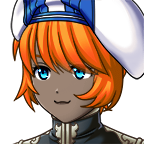
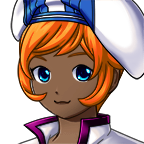
Background Fix
-naprawiono tło
-zmieniono niektóre postaci

diff --git a/js/characters.js b/js/characters.js
@@ -5,7 +5,7 @@ charArr[2] = new Character(3, "m", "dark", "long", "dark", "blue", false, false,
 charArr[3] = new Character(4, "m", "dark", "long", "light", "green", false, false, true)
 charArr[4] = new Character(5, "f", "light", "long", "light", "dark", false, false, false)
 charArr[5] = new Character(6, "f", "red", "long", "light", "green", true, false, true)
-charArr[6] = new Character(7, "m", "red", "short", "light", "yellow", true, false, false)
+charArr[6] = new Character(7, "m", "red", "short", "light", "yellow", true, true, false)
 charArr[7] = new Character(8, "m", "red", "short", "dark", "green", true, false, true)
 charArr[8] = new Character(9, "f", "light", "short", "light", "blue", true, false, false)
 charArr[9] = new Character(10, "f", "dark", "short", "dark", "dark", false, false, false)

diff --git a/styles/game.css b/styles/game.css
@@ -6,24 +6,11 @@
 
 
 body {
-	background-color: #ffb950;
-	background-image: url(../img/question.jpg);
-	background-blend-mode: screen;
+	background-image: radial-gradient(#ffc46b, #ffb648), url(../img/question.png);
+	background-blend-mode:multiply;
 	font-family: "Road Rage", sans-serif;
 }
 
-body::before
-{
-	left: 0;
-	top: 0;
-	content: "";
-	width: 100vw;
-	height: 100vh;
-	background-image: radial-gradient(#ffb950, #ffab2d);
-	opacity: 85%;
-	position: absolute;
-	z-index: -1;
-}
 
 main
 {

diff --git a/styles/main.css b/styles/main.css
@@ -6,23 +6,9 @@
 
 
 body {
-	background-color: #ffb950;
-	background-image: url(../img/question.jpg);
-	background-blend-mode: screen;
+	background-image: radial-gradient(#ffc46b, #ffb648), url(../img/question.png);
+	background-blend-mode:multiply;
 	font-family: "Road Rage", sans-serif;
-}
-
-body::before
-{
-	left: 0;
-	top: 0;
-	content: "";
-	width: 100vw;
-	height: 100vh;
-	background-image: radial-gradient(#ffb950, #ffab2d);
-	opacity: 85%;
-	position: absolute;
-	z-index: -1;
 }
 
 main {

diff --git a/styles/difficulty.css b/styles/difficulty.css
@@ -6,23 +6,9 @@
 
 
 body {
-	background-color: #ffb950;
-	background-image: url(../img/question.jpg);
-	background-blend-mode: screen;
+	background-image: radial-gradient(#ffc46b, #ffb648), url(../img/question.png);
+	background-blend-mode:multiply;
 	font-family: "Road Rage", sans-serif;
-}
-
-body::before
-{
-	left: 0;
-	top: 0;
-	content: "";
-	width: 100vw;
-	height: 100vh;
-	background-image: radial-gradient(#ffb950, #ffab2d);
-	opacity: 85%;
-	position: absolute;
-	z-index: -1;
 }
 
 h1{
